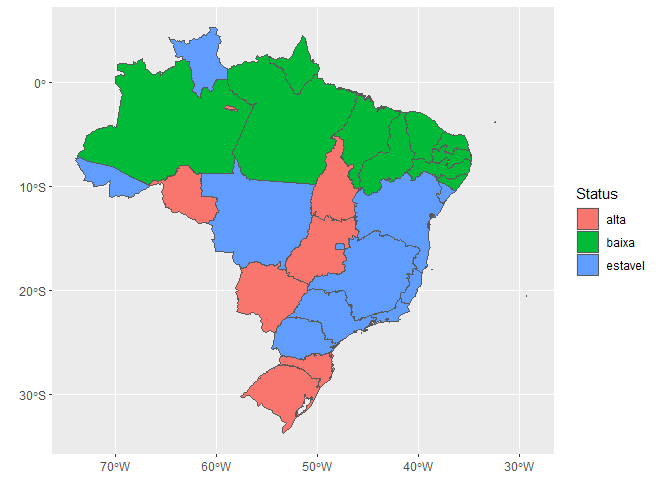
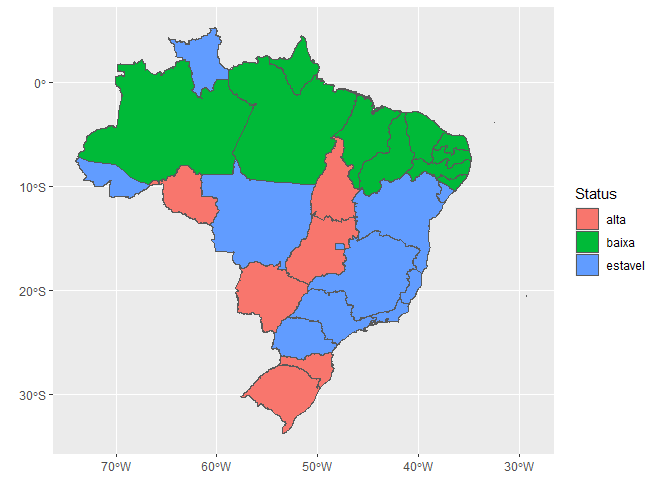
Novo mapa.

diff --git a/README.md b/README.md
@@ -9,45 +9,37 @@ library(readxl)
 library(sf)
 library(rgdal)
 library(rgeos)
+# https://cran.r-project.org/web/packages/geobr/vignettes/intro_to_geobr.html
+library(geobr)
 ```
 
-Le o arquivo de UFs com seus status
+Le o arquivo de UFs com seus índices
 
 ``` r
-df_uf_status <- read_csv2("data/uf_status.csv", col_names = TRUE,
+df_estados_indice <- read_csv2("data/uf_status.csv", col_names = TRUE,
                           locale = locale(encoding = "ISO-8859-1"), col_types = NULL)
 ```
 
-Le os shapefiles Buscar shp novo em:
-<https://cran.r-project.org/web/packages/geobr/vignettes/intro_to_geobr.html>
-
 ``` r
-st_brasil <- readOGR("./data/bra_adm1", "BRA_adm1", encoding = "UTF-8", use_iconv = TRUE) 
-#> OGR data source with driver: ESRI Shapefile 
-#> Source: "D:\Ale\Pessoal\R\Projects\plots\data\bra_adm1", layer: "BRA_adm1"
-#> with 27 features
-#> It has 12 fields
-#> Integer64 fields read as strings:  ID_0 ID_1 CCN_1
+df_estados <- read_state(year=2018) %>% 
+   rename("UF" = name_state) %>% 
+  mutate(UF=str_replace_all(UF, " De "," de ")) %>% 
+  mutate(UF=str_replace_all(UF, " Do "," do "))
+#>   |                                                                              |                                                                      |   0%  |                                                                              |===                                                                   |   4%  |                                                                              |=====                                                                 |   7%  |                                                                              |========                                                              |  11%  |                                                                              |==========                                                            |  15%  |                                                                              |=============                                                         |  19%  |                                                                              |================                                                      |  22%  |                                                                              |==================                                                    |  26%  |                                                                              |=====================                                                 |  30%  |                                                                              |=======================                                               |  33%  |                                                                              |==========================                                            |  37%  |                                                                              |=============================                                         |  41%  |                                                                              |===============================                                       |  44%  |                                                                              |==================================                                    |  48%  |                                                                              |====================================                                  |  52%  |                                                                              |=======================================                               |  56%  |                                                                              |=========================================                             |  59%  |                                                                              |============================================                          |  63%  |                                                                              |===============================================                       |  67%  |                                                                              |=================================================                     |  70%  |                                                                              |====================================================                  |  74%  |                                                                              |======================================================                |  78%  |                                                                              |=========================================================             |  81%  |                                                                              |============================================================          |  85%  |                                                                              |==============================================================        |  89%  |                                                                              |=================================================================     |  93%  |                                                                              |===================================================================   |  96%  |                                                                              |======================================================================| 100%
 ```
 
 ``` r
-sf_brasil <- gSimplify(st_brasil, tol = 0.05, topologyPreserve = TRUE) %>%
-  st_as_sf() %>% 
-  mutate(UF=st_brasil@data$NAME_1)
-```
-
-``` r
-sf_brasil_status <- sf_brasil %>% 
-  left_join(df_uf_status, by = "UF")
+df_brasil_indice <- df_estados %>% 
+  left_join(df_estados_indice, by = "UF")
 ```
 
 Desenha o mapa
 
 ``` r
-sf_brasil_status %>% 
+df_brasil_indice %>% 
   ggplot() +
   geom_sf(aes(fill = Status)) +
   coord_sf()
 ```
 
-<img src="README_files/figure-gfm/unnamed-chunk-7-1.png" style="display: block; margin: auto;" />
+<img src="README_files/figure-gfm/unnamed-chunk-6-1.png" style="display: block; margin: auto;" />
